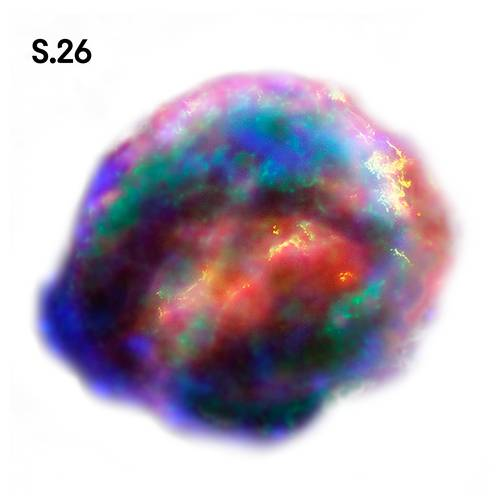
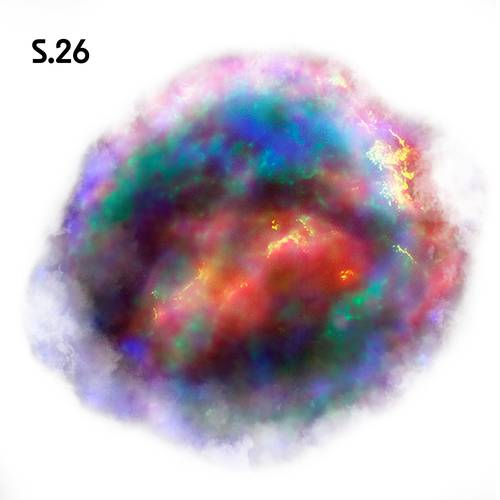
feat (elements): new elements added

diff --git a/lib/data.tsx b/lib/data.tsx
@@ -114,7 +114,7 @@ export const elementSets: ElementSet[] = [
     id: 3,
     name: "Dřevo",
     elementPrefix: "Dřevo_",
-    numberOfElements: 40,
+    numberOfElements: 41,
     facilityId: 3,
     elementCode: "D",
   },
@@ -148,7 +148,7 @@ export const elementSets: ElementSet[] = [
     id: 6,
     name: "Fyzika",
     elementPrefix: "Fyzika_",
-    numberOfElements: 36,
+    numberOfElements: 38,
     facilityId: 6,
     elementCode: "F",
   },
@@ -165,7 +165,7 @@ export const elementSets: ElementSet[] = [
     id: 8,
     name: "Přírodopis",
     elementPrefix: "Přírodopis_",
-    numberOfElements: 52,
+    numberOfElements: 53,
     facilityId: 8,
     elementCode: "P",
   },
@@ -191,7 +191,7 @@ export const elementSets: ElementSet[] = [
     id: 11,
     name: "Miscellaneous",
     elementPrefix: "Misc_",
-    numberOfElements: 9,
+    numberOfElements: 12,
     facilityId: null,
     elementCode: "M",
   },
